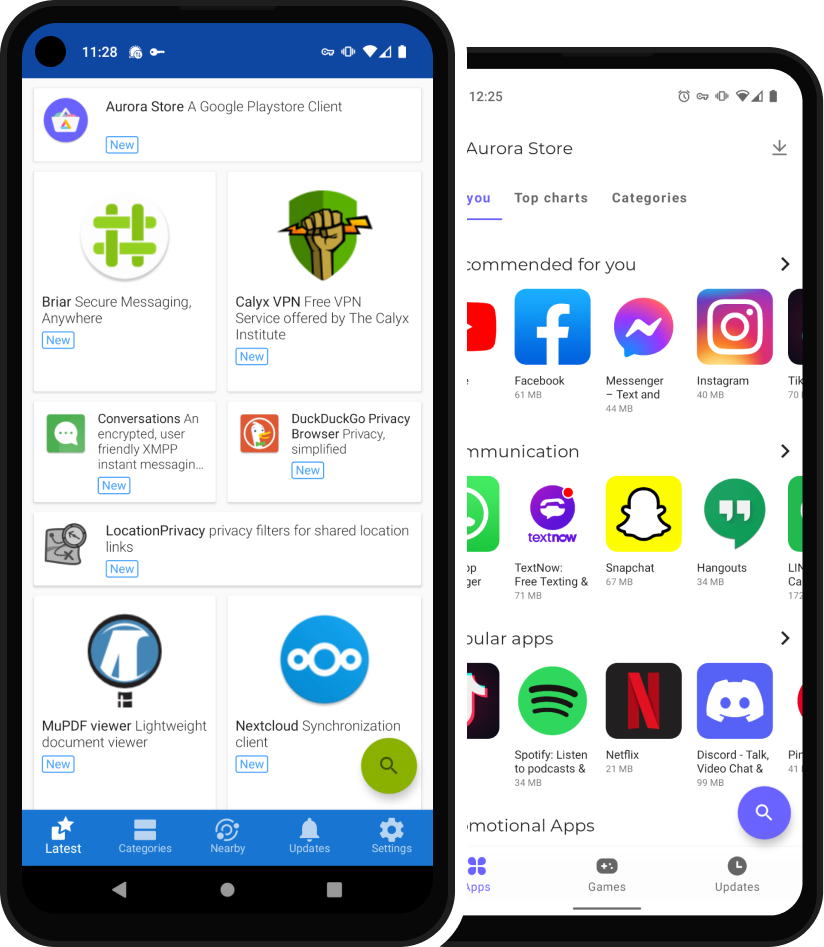
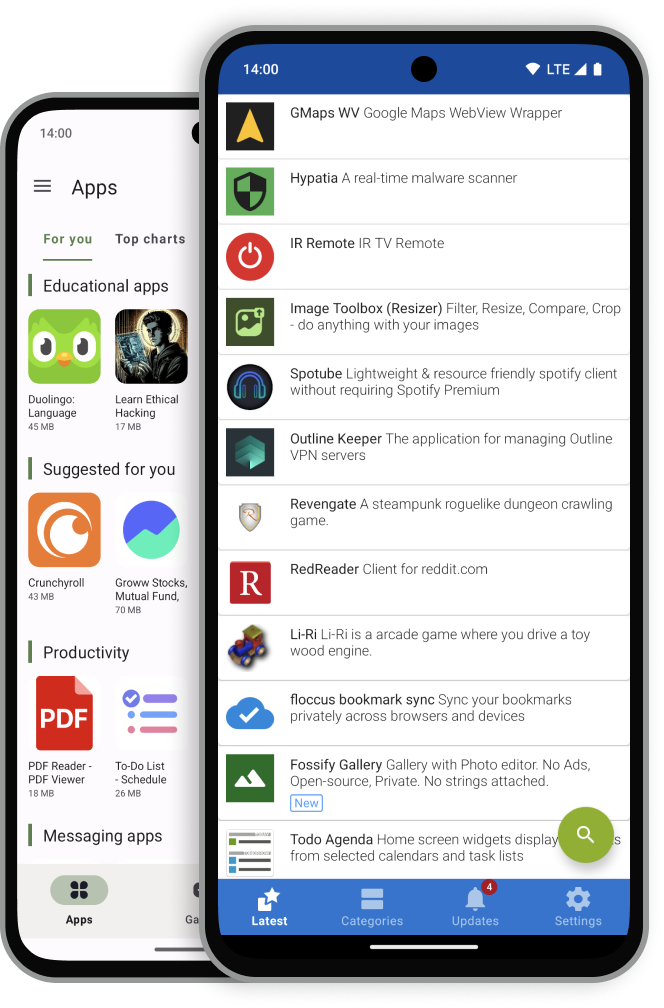
Update screenshots for showcasing features
* Uses a mock device frame inspired from Google Pixel 8
* Replace dialer showcase with work profile
* Mention auto-reboot in strong auth

diff --git a/pages/_includes/features.html b/pages/_includes/features.html
@@ -59,12 +59,12 @@
 </div>
 <div class="contentItem mobileItem standardItem">
   <div class="description flip">
-    <h3>Private Dialer</h3>
-    <p>📞 Directly make an encrypted call using <a href="https://www.signal.org" rel="noopener noreferrer nofollow" target="_blank">Signal</a> or <a href="https://www.whatsapp.com/" rel="noopener noreferrer nofollow" target="_blank">WhatsApp</a> from the Dialer.</p>
-    <p>💡 Learn about the privacy impacts of different channels of communication.</p>
+    <h3>Work-life balance</h3>
+    <p>💼 Maintain work-life balance with <a href="https://support.google.com/work/android/answer/6191949?hl=en" rel="noopener noreferrer nofollow" target="_blank">Work Profile</a>. Use same device for work and personal purposes.</p>
+    <p>💡 Manage app and content access easily using in-built options.</p>
   </div>
   <div class="featureImage mobileImage">
-    <img src="{{ '/assets/images/device/feature/dialer.png' | relative_url }}" alt="#">
+    <img src="{{ '/assets/images/device/feature/work.png' | relative_url }}" alt="#">
   </div>
 </div>
 <div class="contentItem mobileItem standardItem">
@@ -101,6 +101,7 @@
 <div class="contentItem mobileItem standardItem">
   <div class="description flip">
     <h3>Strong Authentication</h3>
+    <p>⌛ Auto-reboot device when not unlocked for a certain period requiring entering PIN/password again</p>
     <p>🙈 Scramble lockscreen PIN</p>
   </div>
   <div class="featureImage mobileImage">
